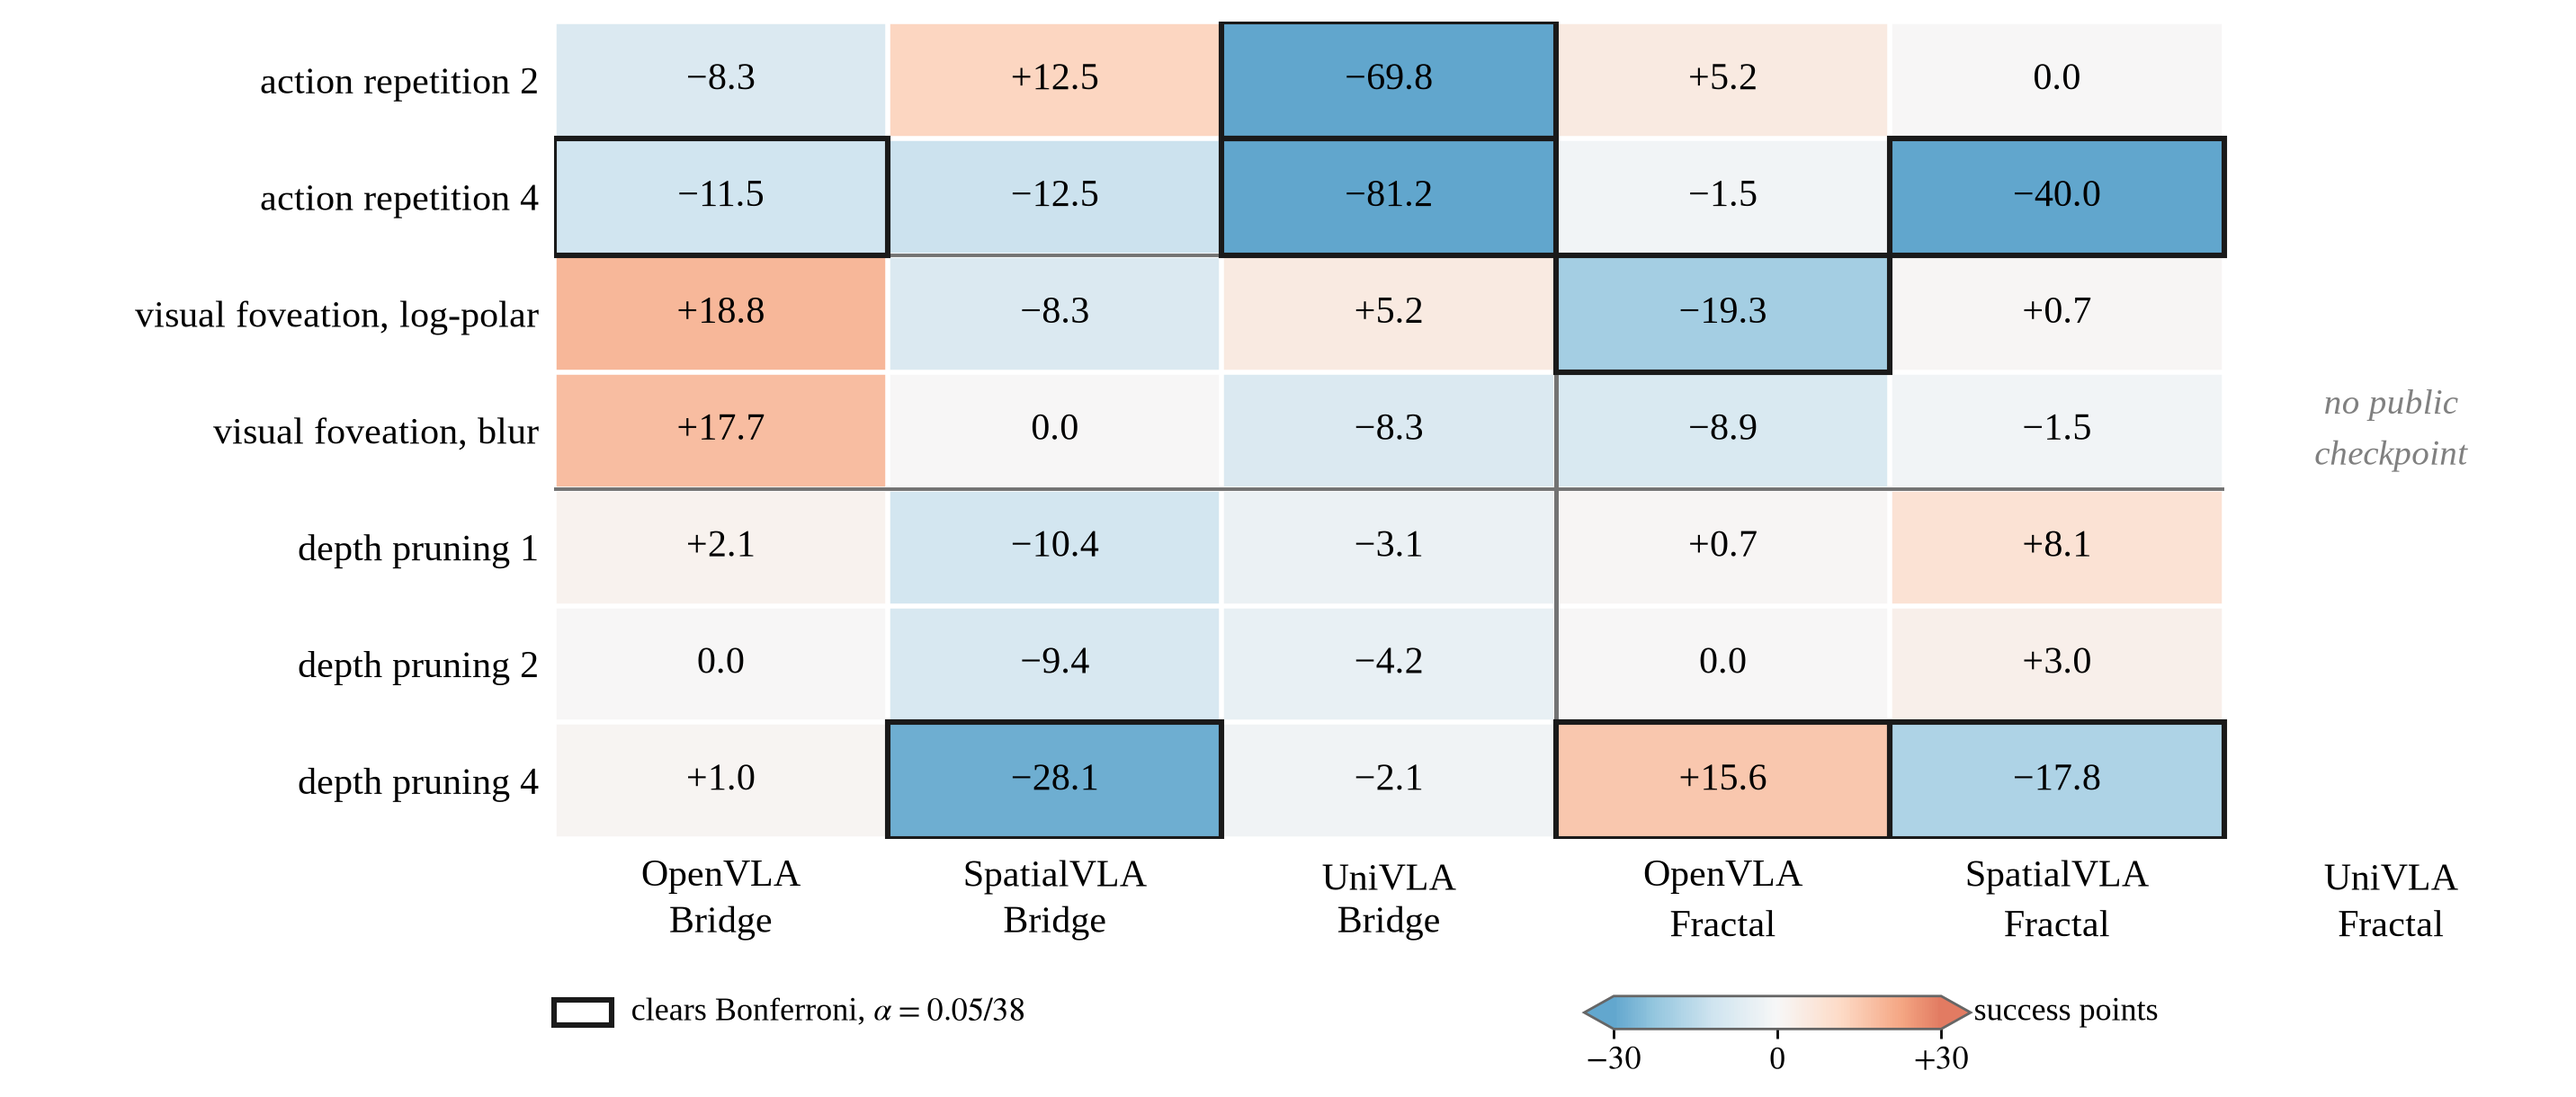
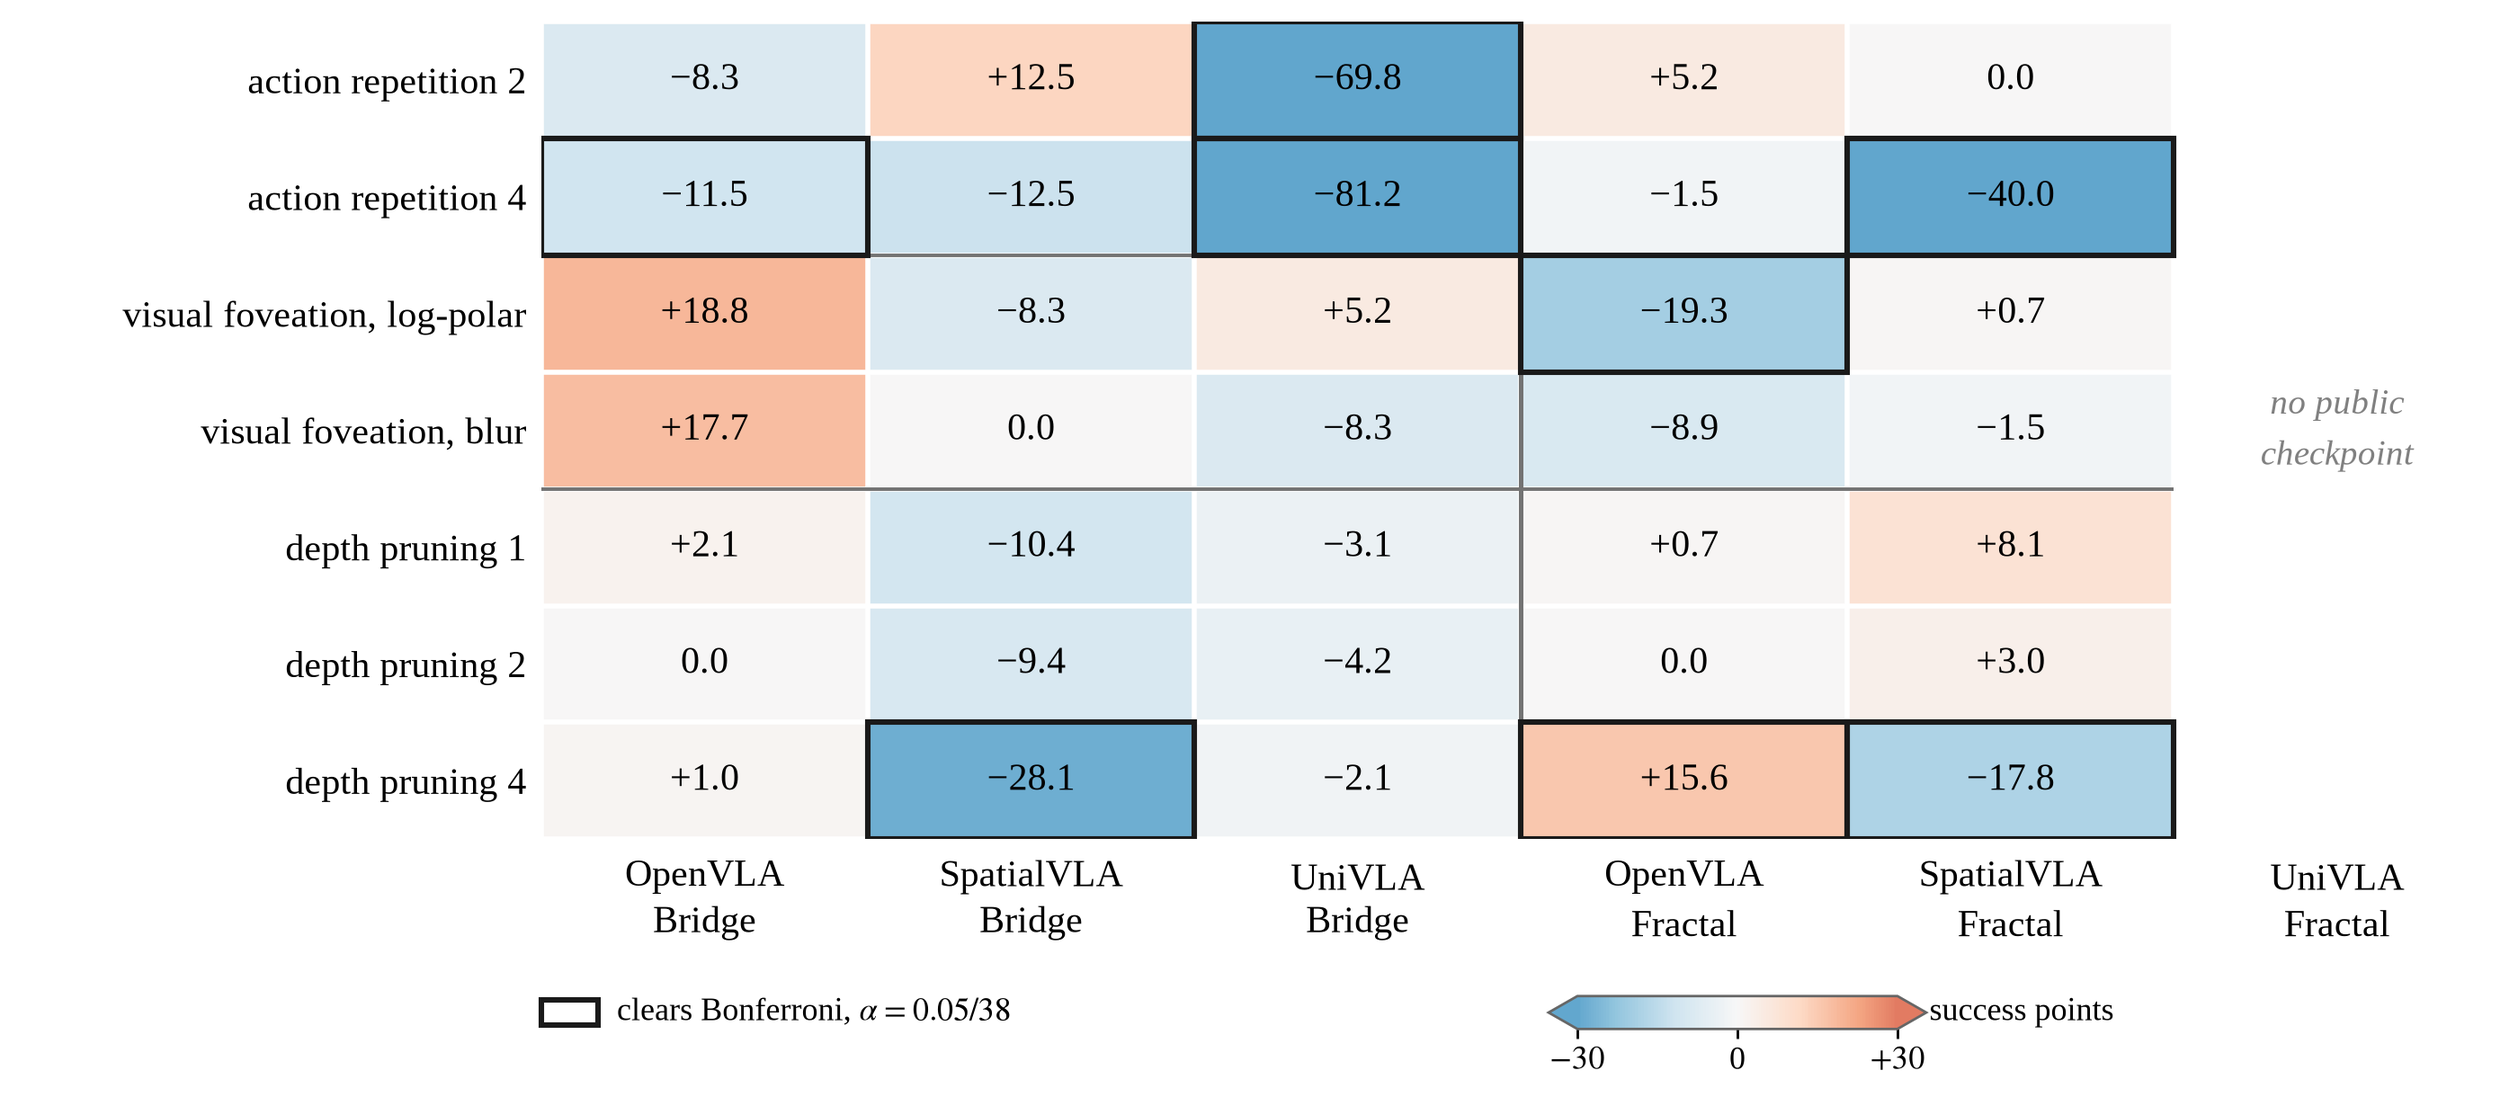
fig1: textwidth is 7.00 in, not 7.16, measured from the real document
The figure was drawn at 7.16 in on the assumption that the class was
IEEEtran. The project uses ieeeconf.cls, which ICRA and IROS distribute
and whose margins differ. \showthe\textwidth in the actual document
reports 505.89 pt, and a TeX point is 1/72.27 in, so the width is 7.000
in exactly. The figure was 2.3% too wide, which LaTeX would have silently
scaled down, taking every point size with it.

Moot for the moment, since Table I replaced the heat map, but the script
is still in the repo and the comment now carries the measurement rather
than an assumption about which class is loaded.

Claude-Session: https://claude.ai/code/session_011USoCwMtkSq1wKhwTPjNT9

diff --git a/experiments/make_grid_figure.py b/experiments/make_grid_figure.py
@@ -146,10 +146,14 @@ def main():
     cmap = mcolors.ListedColormap(
         plt.get_cmap("RdBu_r")(np.linspace(TRUNC, 1.0 - TRUNC, 256)))
 
-    # 7.16 in is IEEEtran's \textwidth on US Letter, which is what a figure*
-    # spans. Drawing at final size means nothing is scaled in LaTeX and the
-    # point sizes below are the point sizes on the page.
-    fig = plt.figure(figsize=(7.16, 3.05))
+    # 7.00 in is the \textwidth a figure* spans, which is what this project's
+    # ieeeconf.cls actually gives. MEASURED, 2026-08-25, with \showthe
+    # \textwidth in the real document: 505.89 pt, and a TeX point is 1/72.27
+    # in, so 7.000 in exactly. This said 7.16 before, on the assumption that
+    # the class was IEEEtran; the file list says ieeeconf, which ICRA and IROS
+    # distribute, and its margins differ. Drawing at final size means nothing
+    # is scaled in LaTeX and the point sizes below are the ones on the page.
+    fig = plt.figure(figsize=(7.00, 3.05))
     ax = fig.add_axes([0.215, 0.235, 0.778, 0.745])
     ax.imshow(np.ma.masked_invalid(np.clip(grid, -limit, limit)),
               cmap=cmap, norm=norm, aspect="auto", interpolation="nearest")
